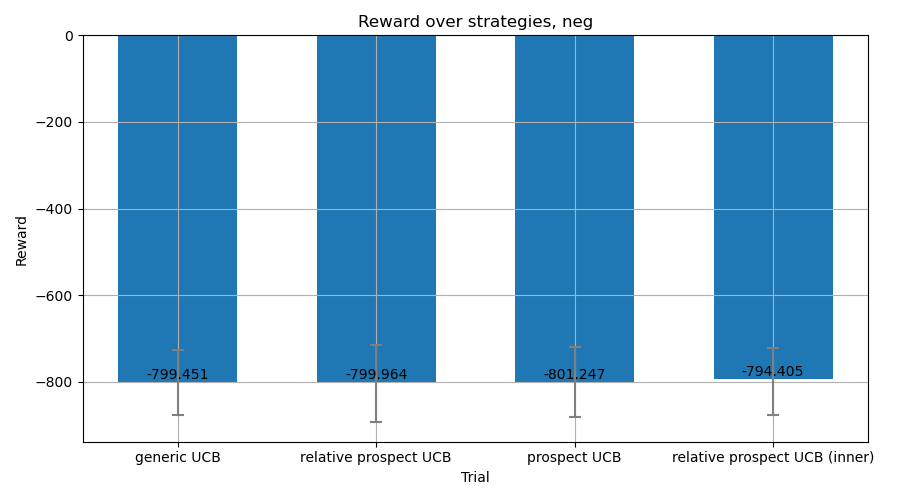
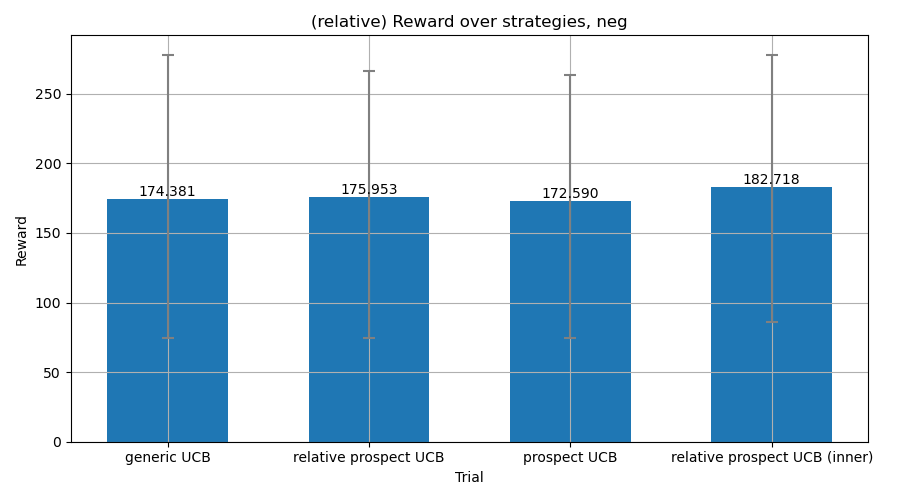
feat: add relative reward and grouped switch rate plots

diff --git a/test.py b/test.py
@@ -5,7 +5,7 @@ import matplotlib.pyplot as plt
 
 np.random.seed(42)
 variance = 10
-noise = 5
+noise = 10
 horizon = 20
 num = 300
 mean = [50, 0, -50]
@@ -37,8 +37,8 @@ def simulate(option, env, mean, hori = horizon) :
     result, switch, directed, random = 0, 0, 0, 0
 
     mu_post = np.array([mean for i in range(10)])
-    sigma_post = np.array([10 for i in range(10)])
-    sigma_0 = 10
+    sigma_post = np.array([noise for i in range(10)])
+    sigma_0 = noise
 
     for t in range(hori):
         action = get_action(mu_post, sigma_post, option, result)
@@ -104,32 +104,47 @@ for i in range(4):
             result_r[e][i].append(np.cumsum(r))
             tot_r[e][i].append(total)
             switch[e][i].append(s)
+tot_r = np.array(tot_r)
 
 x = [i for i in range(horizon)]
 for e in range(3) :
-    plt.figure(figsize=(6, 5))
-    plt.title('Reward accumulation over strategies, ' + env_name[e])
+    fig, axes = plt.subplots(1, 2, figsize=(12, 5))
+    axes[0].set_title('Reward accumulation over strategies, ' + env_name[e])
+    axes[1].set_title('(Relative) Reward accumulation over strategies, ' + env_name[e])
     for i in range(4) :
         data = result_r[e][i]
-        plt.plot(x, np.mean(data, axis = 0), linestyle='-', marker='o', label=strategy[i])
+        axes[0].plot(x, np.mean(data, axis = 0), linestyle='-', marker='o', label=strategy[i])
         q1 = np.percentile(data, 25, axis = 0)
         q3 = np.percentile(data, 75, axis = 0)
+        axes[0].fill_between(x, q1, q3, alpha = 0.2)
 
-        plt.fill_between(x, q1, q3, alpha = 0.2)
-    plt.xlabel("Trial")
-    plt.xticks([i for i in range(horizon)])
-    plt.ylabel("Accumulated Reward")
-    plt.legend()
-    plt.grid(True)
+        relative = np.cumsum(np.ones_like(data) * mean[e], axis = 1)
+        data = data - relative
+        axes[1].plot(x, np.mean(data, axis = 0), linestyle='-', marker='o', label=strategy[i])
+        q1 = np.percentile(data, 25, axis = 0)
+        q3 = np.percentile(data, 75, axis = 0)
+        axes[1].fill_between(x, q1, q3, alpha = 0.2)
+    axes[0].set_xlabel("Trial")
+    axes[0].set_xticks([i for i in range(horizon)])
+    axes[0].set_ylabel("Accumulated Reward")
+    axes[0].legend()
+    axes[0].grid(True)
+
+    axes[1].set_xlabel("Trial")
+    axes[1].set_xticks([i for i in range(horizon)])
+    axes[1].set_ylabel("Accumulated Reward")
+    axes[1].legend()
+    axes[1].grid(True)
+
     plt.tight_layout()
     plt.savefig('images/reward accumulationm, ' + env_name[e] + '.png')
 
 for e in range(3) :
     plt.figure(figsize=(9, 5))
-    plt.title('Reward over strategies, ' + env_name[e])
-    data = np.mean(tot_r[e], axis=1) 
-    q1 = np.percentile(tot_r[e], 25, axis=1)
-    q3 = np.percentile(tot_r[e], 75, axis=1) 
+    plt.title('(relative) Reward over strategies, ' + env_name[e])
+    data = np.mean(tot_r[e], axis=1) - mean[e] * horizon
+    q1 = np.percentile(tot_r[e]- mean[e] * horizon, 25, axis=1)
+    q3 = np.percentile(tot_r[e]- mean[e] * horizon, 75, axis=1) 
     err = np.vstack([data - q1, q3 - data]) 
     plt.bar([i for i in range(4)], data, yerr = err, width = 0.6, error_kw={
     'ecolor': 'gray',
@@ -139,48 +154,46 @@ for e in range(3) :
 })
     plt.xlabel("Trial")
     plt.xticks([i for i in range(4)], strategy)
-    for i, val in enumerate(np.mean(tot_r[e], axis = 1)):
+    for i, val in enumerate(data):
         plt.text(i, val, f"{val:.3f}", ha='center', va='bottom', fontsize=10)
     plt.ylabel("Reward")
     plt.grid(True)
     plt.tight_layout()
     plt.savefig('images/total reward over strategies, ' + env_name[e] + '.png')
 
-for e in range(3) :
-    plt.figure(figsize=(9, 5))
-    plt.title('Switch over strategies, ' + env_name[e])
-    data = np.mean(switch[e], axis=1) 
+
+bar_width = 0.2
+offsets = [-bar_width, 0, bar_width]
+x = np.array([i for i in range(4)])
+plt.figure(figsize=(10, 6))
+for e in range(3):
+    data = np.mean(switch[e], axis=1)
     q1 = np.percentile(switch[e], 25, axis=1)
-    q3 = np.percentile(switch[e], 75, axis=1) 
-    err = np.vstack([data - q1, q3 - data]) 
-    plt.bar([i for i in range(4)], data, yerr = err, width = 0.6, error_kw={
-    'ecolor': 'gray',
-    'capsize': 4,
-    'capthick': 1.5,
-    'linestyle': '--'
-})
-    plt.xlabel("Trial")
-    plt.xticks([i for i in range(4)], strategy)
-    for i, val in enumerate(np.mean(switch[e], axis = 1)):
-        plt.text(i, val, f"{val:.3f}", ha='center', va='bottom', fontsize=10)
-    plt.ylabel("Switch ratio")
-    plt.grid(True)
-    plt.tight_layout()
-    plt.savefig('images/switch over strategies, ' + env_name[e] + '.png')
+    q3 = np.percentile(switch[e], 75, axis=1)
+    err = np.vstack([data - q1, q3 - data])
+    
+    # 각 env의 bar 위치는 x + offset
+    plt.bar(
+        x + offsets[e], data, width=bar_width, yerr=err,
+        label=env_name[e],
+        error_kw={
+            'ecolor': 'gray',
+            'capsize': 4,
+            'capthick': 1.5,
+            'linestyle': '--'
+        }
+    )
+    
+    for i in range(4):
+        plt.text(x[i] + offsets[e], data[i] + 0.01, f"{data[i]:.3f}",
+                 ha='center', va='bottom', fontsize=9)
 
-"""
-switch = [0 for i in range(4)]
-for s in range(4) :
-    for i in range(1, horizon) :
-        if (a[s][i-1] != a[s][i]) :
-            switch[s] += 1
-    switch[s] /= (horizon-1)
-
-plt.figure(figsize=(10, 5))
-plt.title('# of Switches over strategies')
-plt.bar([i for i in range(4)], switch, width = 0.6)
-plt.xticks([i for i in range(4)], strategy)
-for i, val in enumerate(switch):
-    plt.text(i, val - 0.05, f"{val:.3f}", ha='center', va='bottom', fontsize=10, color="white")
-plt.savefig('switch rate.png')
-"""
+plt.xticks(x, strategy)
+plt.xlabel("Strategy")
+plt.ylabel("Switch Ratio")
+plt.title("Switch over strategies by environment")
+plt.grid(True, axis='y')
+plt.legend()
+plt.tight_layout()
+plt.savefig("images/grouped switch ratio.png")
+plt.show()
